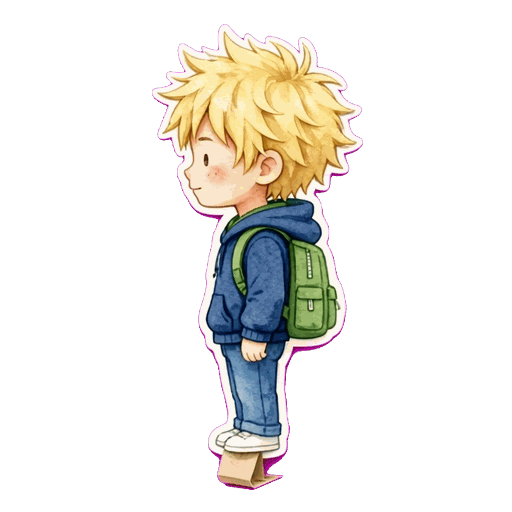
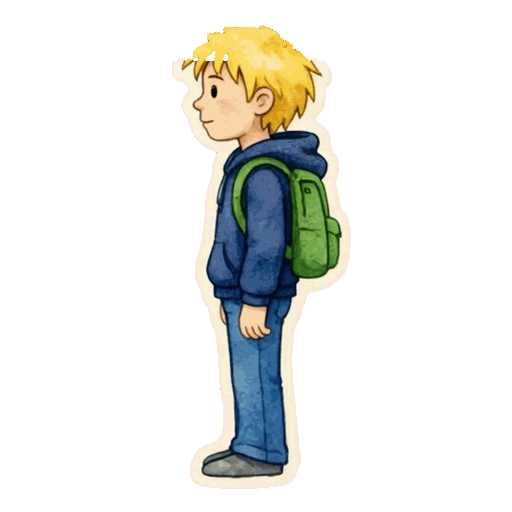
Kenji và Jake (đặt lại): khung bước 3 hướng, tay khép tự nhiên, bỏ giấy nền
- Kenji: tay khép sát người; thiếu một khung bước nhìn sau thì lật khung còn lại
- Jake: tách 9 hình dính chồng nhau theo ranh giới tóc / giày, bỏ vệt viền thừa; đứng cũng dùng hình mới (không đế giấy)
- Tay cầm ô của Kenji chỉnh theo hình mới

Claude-Session: https://claude.ai/code/session_01AHzGepJt93aQaJT6t7Vsc8

Changed region(s): [[0.2812, 0.0312, 0.7188, 0.9688]]

diff --git a/game/data/asset_rev.js b/game/data/asset_rev.js
@@ -267,9 +267,15 @@ G.ASSET_REV = {"badge_1.webp":"4cd4eec0",
 "person_helen_up.png":"34636e25",
 "person_helen_up_w1.png":"775533d7",
 "person_helen_up_w2.png":"a42d0667",
-"person_kenji_down.png":"2e9cf793",
-"person_kenji_left.png":"ba4c47ef",
-"person_kenji_up.png":"9a7e2b59",
+"person_kenji_down.png":"44e1cab2",
+"person_kenji_down_w1.png":"8c821351",
+"person_kenji_down_w2.png":"6a633d96",
+"person_kenji_left.png":"6575e0bf",
+"person_kenji_left_w1.png":"8254dbbd",
+"person_kenji_left_w2.png":"feb5bcba",
+"person_kenji_up.png":"5d2f3243",
+"person_kenji_up_w1.png":"d5507977",
+"person_kenji_up_w2.png":"24d4e3d5",
 "person_linda_down.png":"8d0b4706",
 "person_linda_down_w1.png":"88e831e5",
 "person_linda_down_w2.png":"8ea24f94",
@@ -368,9 +374,15 @@ G.ASSET_REV = {"badge_1.webp":"4cd4eec0",
 "walk_carlos_up.png":"b4f6a42e",
 "walk_carlos_up_w1.png":"a65b0968",
 "walk_carlos_up_w2.png":"45bedd8b",
-"walk_jake_left.png":"cd950f50",
-"walk_jake_left_w1.png":"48ae9874",
-"walk_jake_left_w2.png":"3eea39c7",
+"walk_jake_down.png":"eaf343ff",
+"walk_jake_down_w1.png":"a5228f71",
+"walk_jake_down_w2.png":"337fed9e",
+"walk_jake_left.png":"e92deaf9",
+"walk_jake_left_w1.png":"462e1b3f",
+"walk_jake_left_w2.png":"ffc3801d",
+"walk_jake_up.png":"00816895",
+"walk_jake_up_w1.png":"c6e41a9b",
+"walk_jake_up_w2.png":"4ec394f5",
 "walk_nora_down.png":"95fe3f64",
 "walk_nora_down_w1.png":"7daeff49",
 "walk_nora_down_w2.png":"aa3a3c74",

diff --git a/game/data/hands.js b/game/data/hands.js
@@ -38,9 +38,9 @@ G.HANDS = {
     'person_helen_down.png': [64.8, 62.4, '#f9d5ad', 4.9],
     'person_helen_left.png': [47.4, 62.2, '#f8d6ad', 4.9],
     'person_helen_up.png': [64, 64, '#f6dcc8', 4.9],
-    'person_kenji_down.png': [68.1, 57.5, '#fbd7ac', 4.7],
-    'person_kenji_left.png': [50.1, 58.9, '#fbd6aa', 4.7],
-    'person_kenji_up.png': [67.5, 57.2, '#fad4a9', 4.7],
+    'person_kenji_down.png': [60, 61.5, '#f8d7b1', 4.9],
+    'person_kenji_left.png': [50, 60, '#f8d7b1', 4.9],
+    'person_kenji_up.png': [60, 62, '#f8d7b1', 4.9],
     'person_linda_down.png': [64, 63, '#f6dcc8', 4.9],
     'person_linda_left.png': [50.4, 75.1, '#f7d7aa', 4.9],
     'person_linda_up.png': [64, 63, '#f6dcc8', 4.9],

diff --git a/game/sw.js b/game/sw.js
@@ -1,7 +1,7 @@
 /* Chạy offline: giữ toàn bộ code game, dữ liệu và mọi hình trong assets/.
    Hình tải qua assets/<tên>?v=<mã nội dung> (data/asset_rev.js): mỗi lần cập nhật app chỉ tải hình mới hoặc hình đã thay,
    hình không đổi chép lại từ bản trong máy. Tệp giọng đọc được giữ lại khi đã nghe một lần. */
-var VERSION = 'thegioi-v92';
+var VERSION = 'thegioi-v93';
 // giọng đọc: tên tệp đặt theo nội dung câu nên không bao giờ đổi, giữ riêng một kho để cập nhật app không phải tải lại
 var AUDIO = 'connectlife-audio-v2';
 var CORE = [
